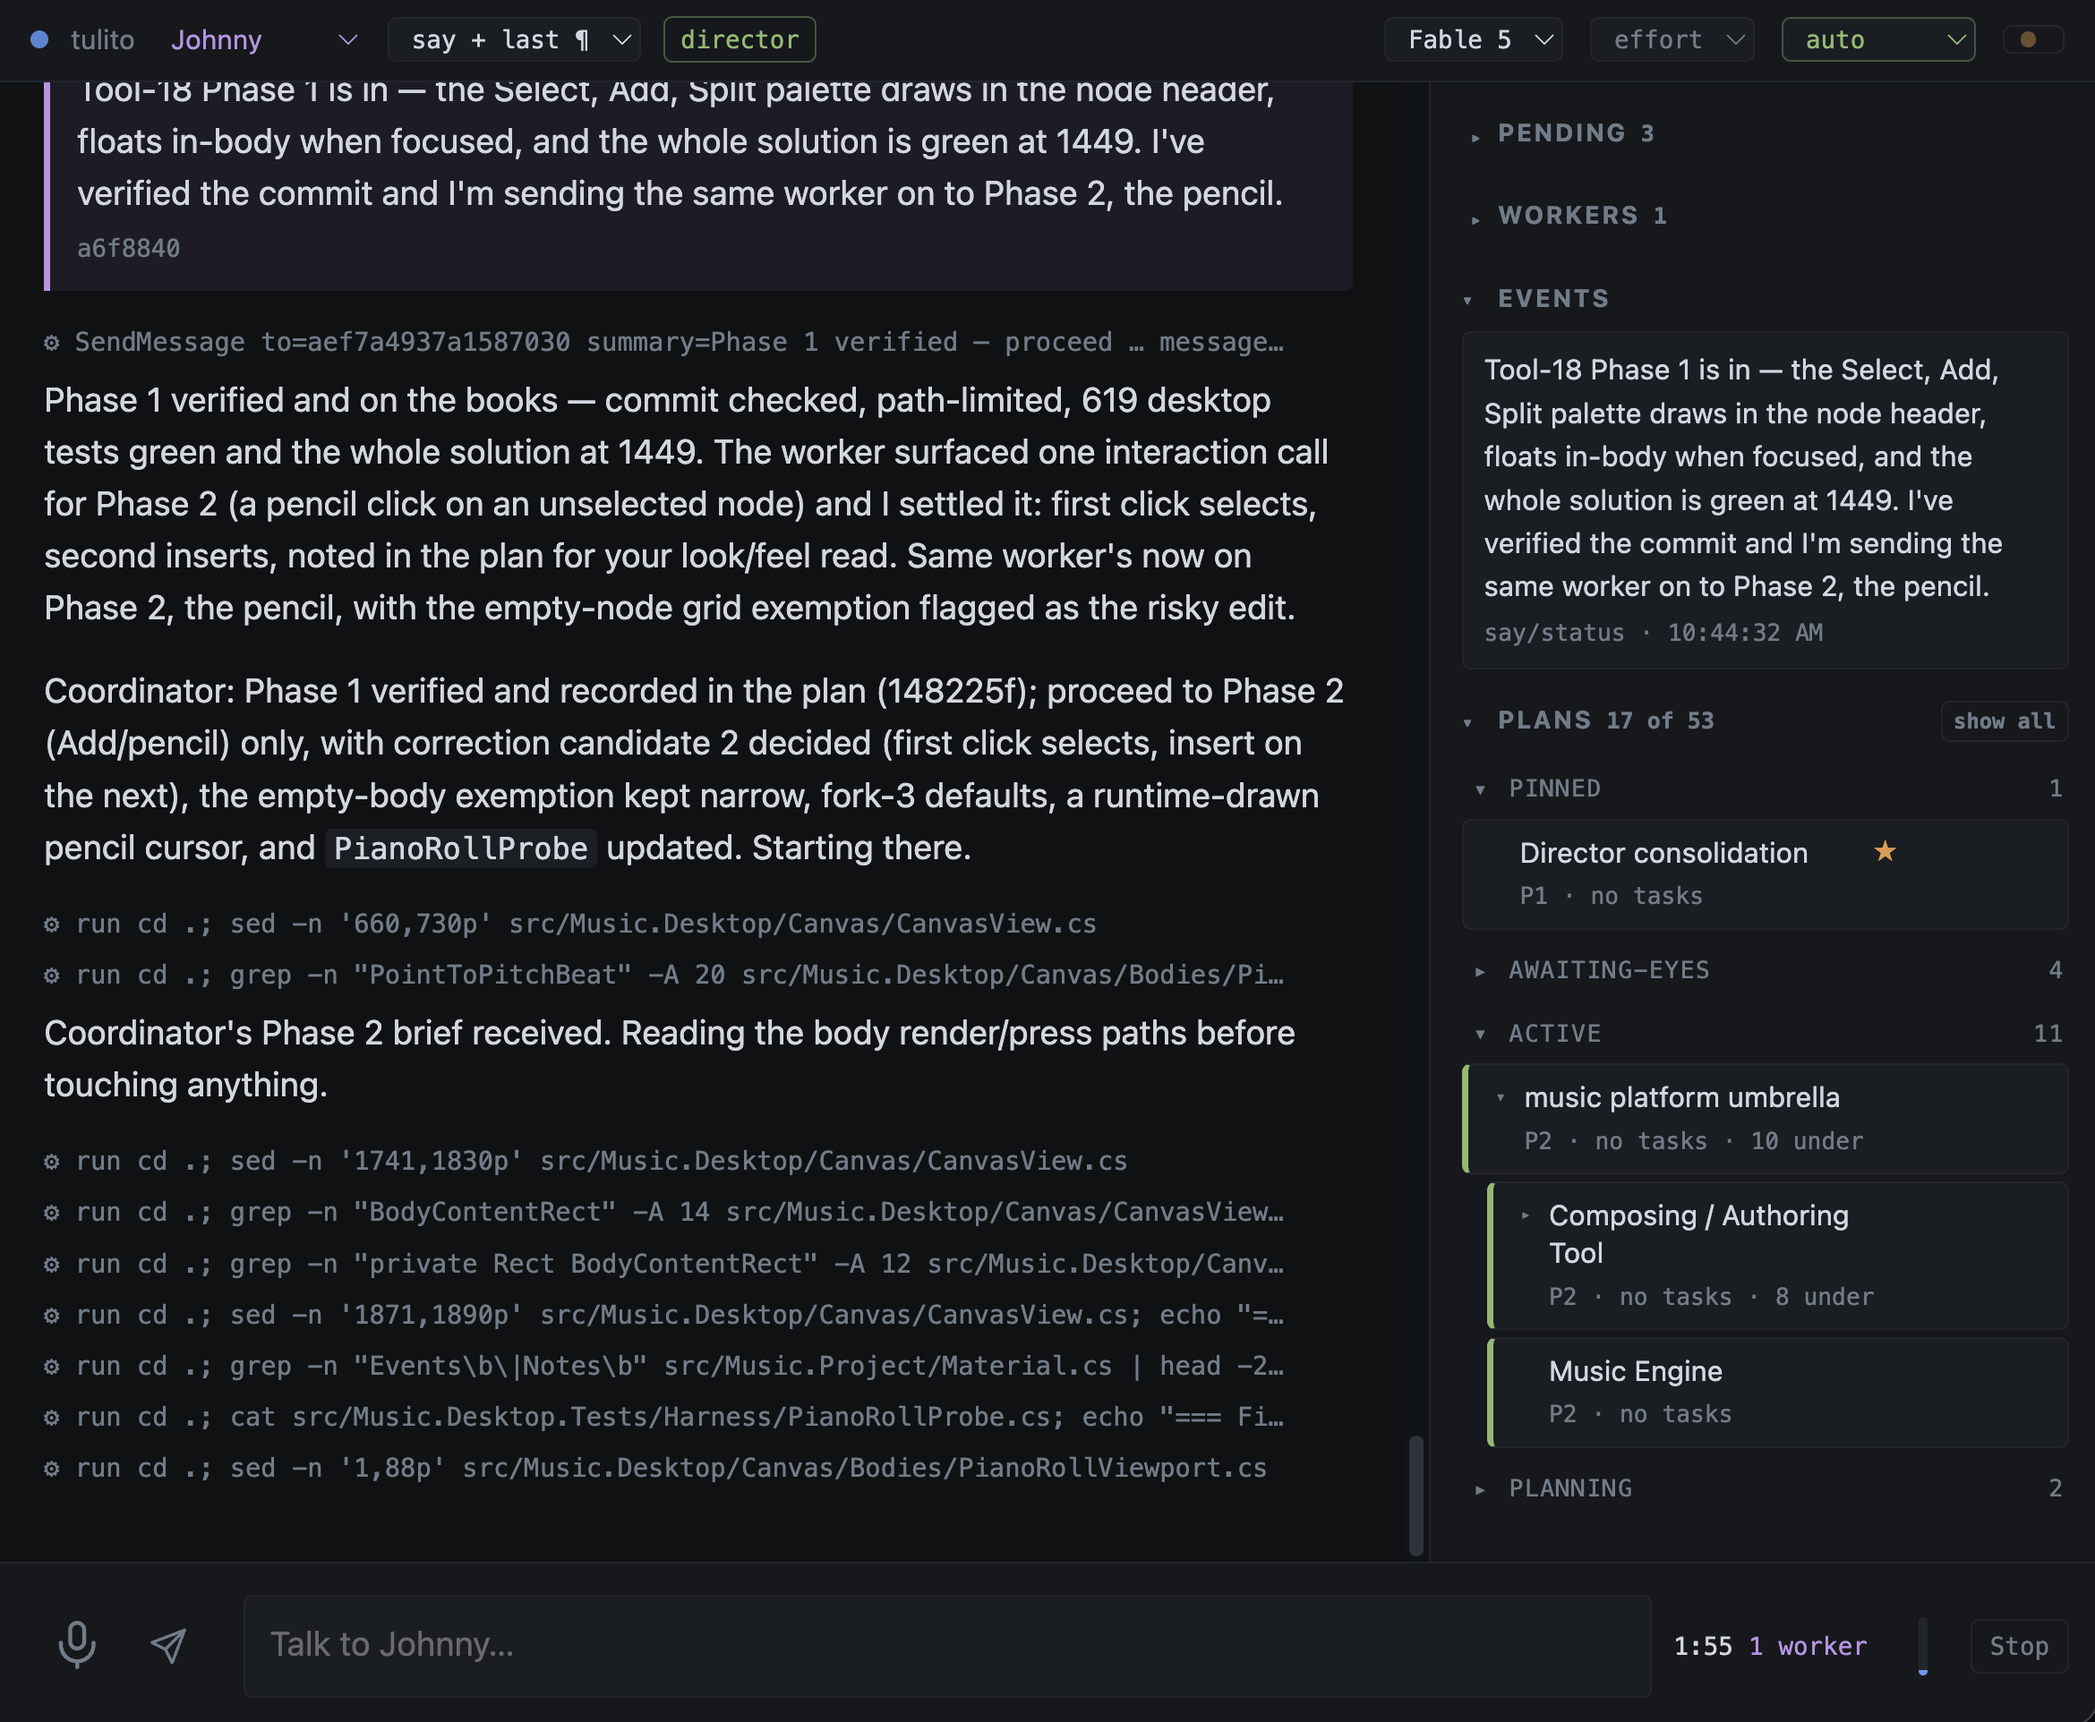
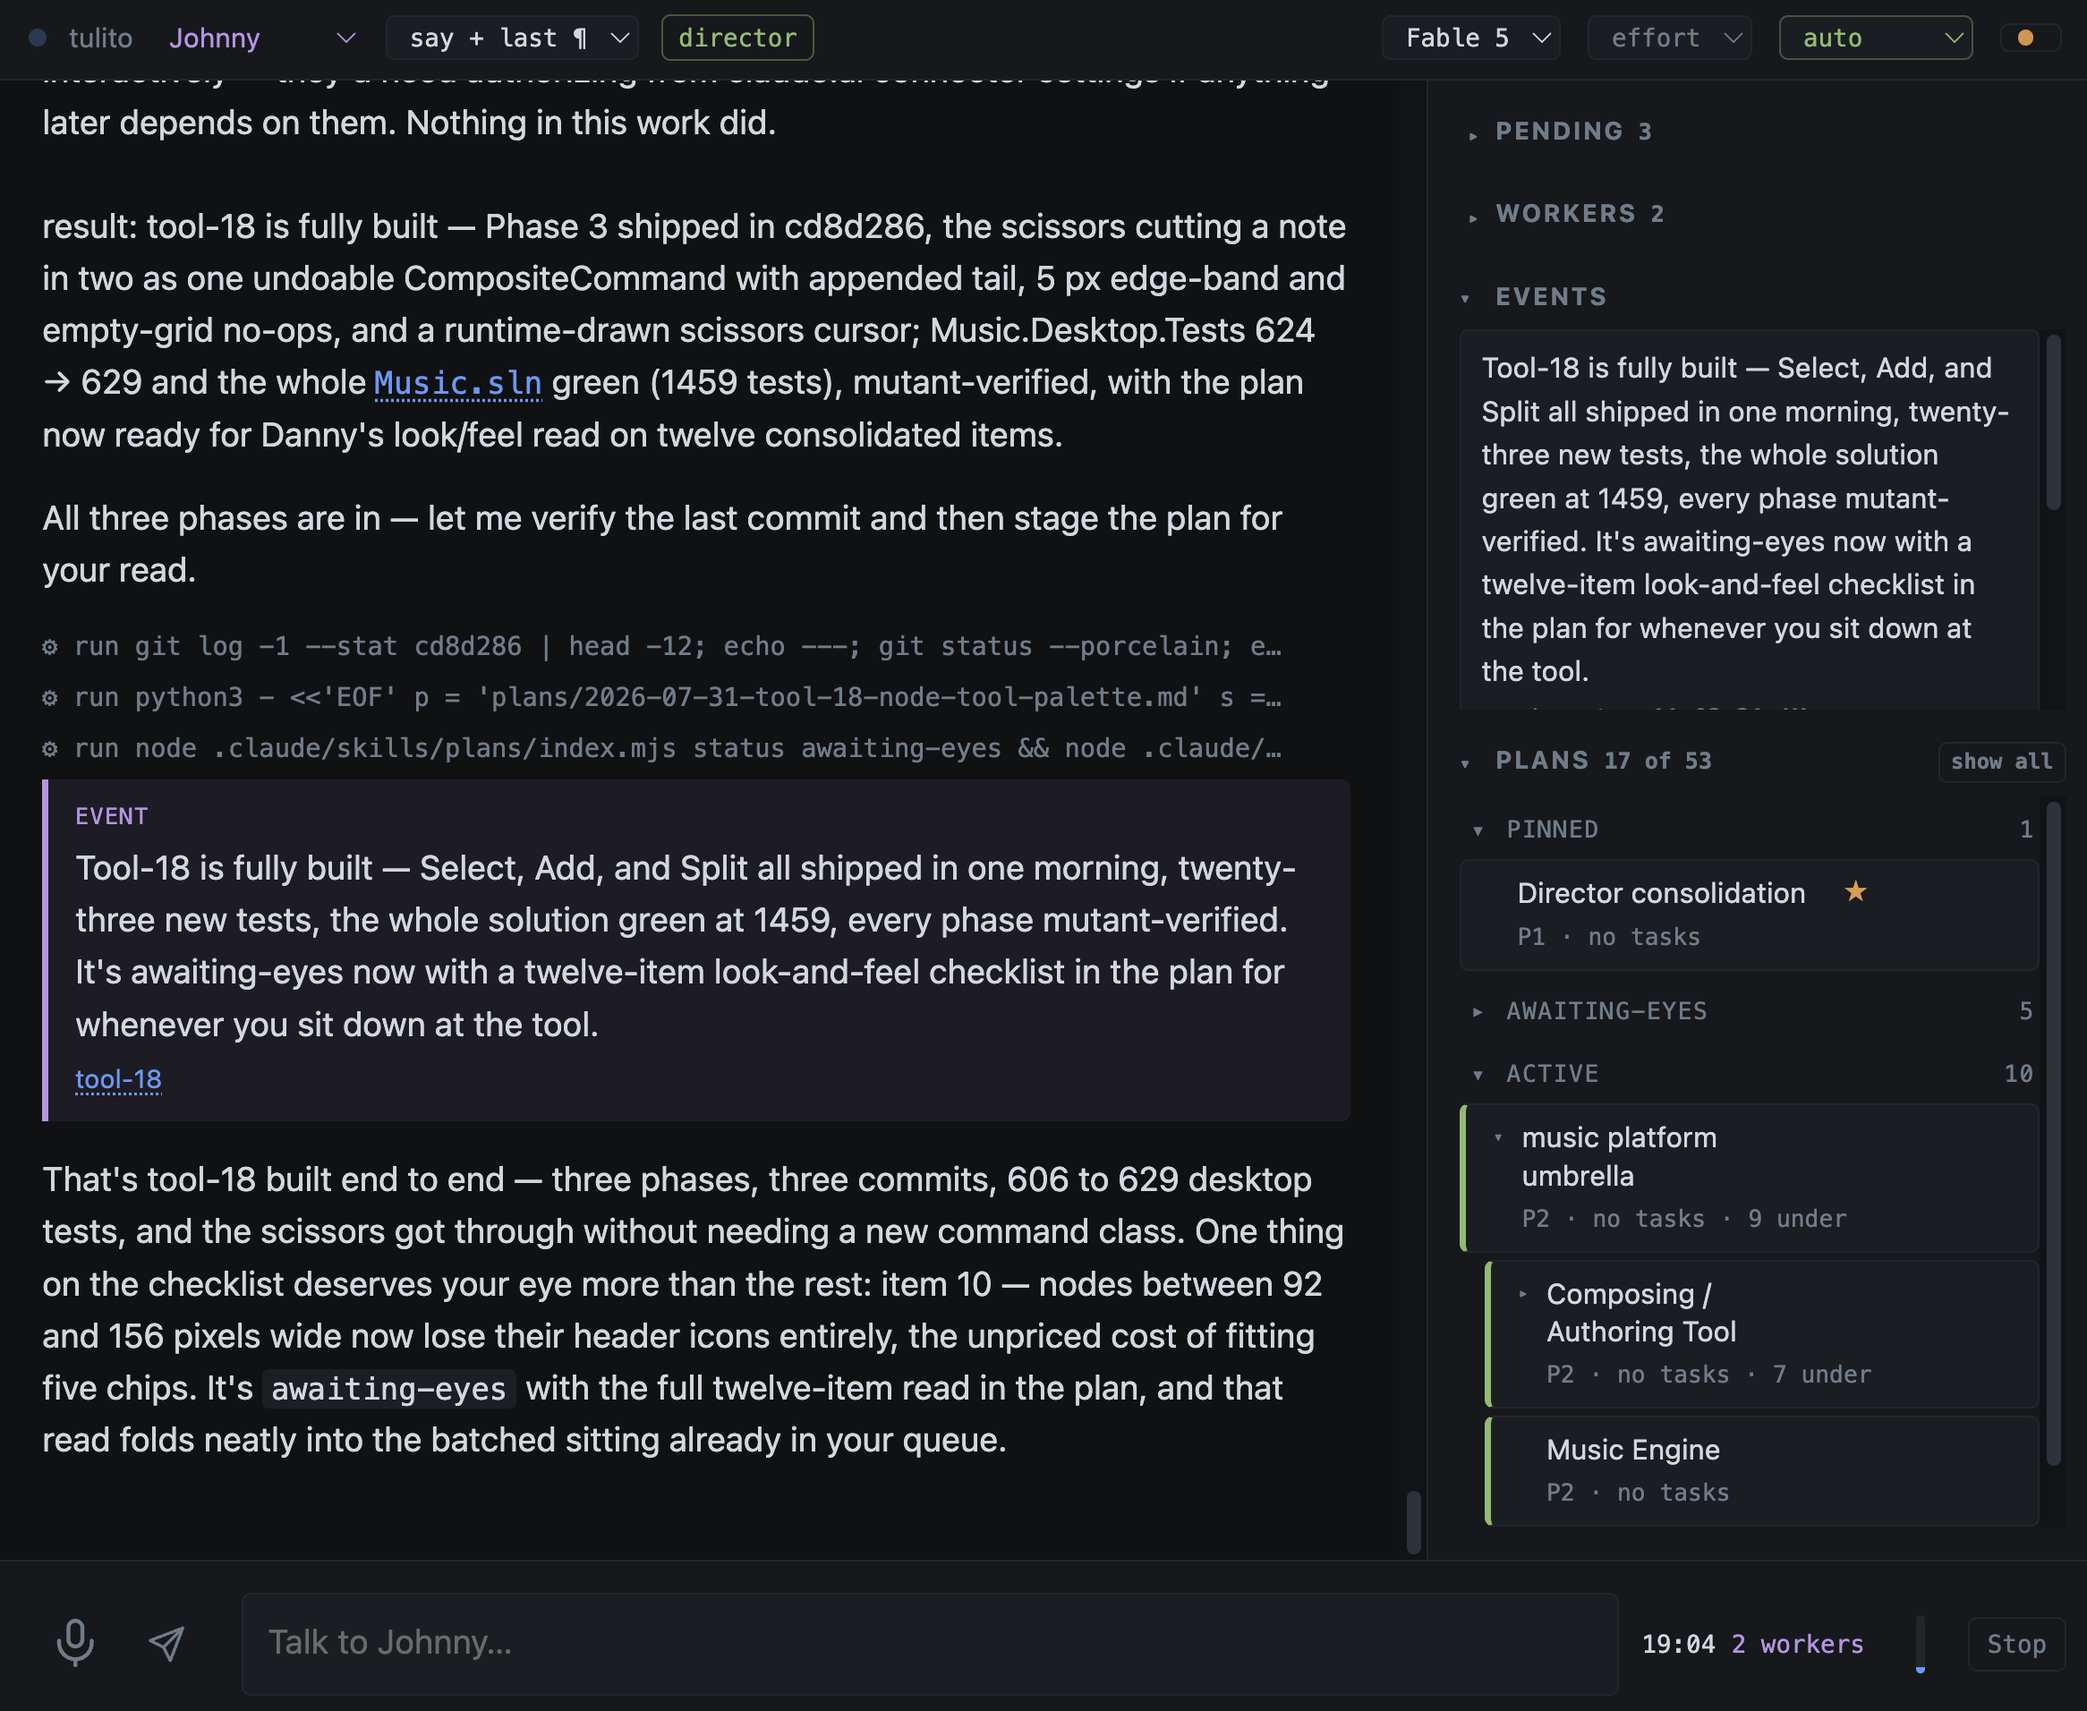
Show the thing, at the size it is
Three screenshots into the README's intro, each under the sentence it proves:
the speech-level menu open in the strip under the chattiness line, a better
full-session capture (a feature shipping end to end — the event card linking
its plan, awaiting-eyes in the flow, two workers on the clock) replacing the
first one under the personas line, and the stats popup — context, the
fresh/cached/output split, the speech bill with its volume slider and the
assumed rate printed beside the estimate, the plan windows — under the
token-use line.

Each file is named for what it SHOWS (speech-levels, director-session,
stats-panel), because Desktop timestamps mean nothing in a repo, and each
narrow capture carries a width cap at half its retina resolution — a 642px-wide
popup stretched to column width is a screenshot shouting. Alt text on all
three, updated when the session capture changed, because an image that proves a
claim should prove it to screen readers too.

Danny's intro rewording rides along, including the paragraph splits that gave
each image its slot.

diff --git a/README.md b/README.md
@@ -1,12 +1,24 @@
 # Beth
 
-Yet another harness. But the one that fits my brain, workflows, talks to me, and keeps me on task. Most of my agent interactions occur through this tool now, rather than CC. I welcome ideas and pull requests, if you find this also fits your own workflow; this tool would be much less useful in a team environment than it is for a solo developer.
+Yet another harness. But the one that fits my brain, workflows, talks to me, and keeps me on task. Most of my agent interactions occur through this tool now, rather than Claude Code directly (it is the CC SDK). I welcome ideas and pull requests, if you find this also fits your own (solo) workflow. I plan to maintain it.
 
 Beth gives me a standing director on a single repo: someone who has already read the board, knows what shipped yesterday, holds the shape of the work while I hold a coffee, and can be talked to out loud while I pace. Claude Code and other tools give you a coding session (and I often use it in parallel); what they don't give you is the *assistant* across from you — a name, a voice, a memory of me, an opinion about what I should do next, and a place to see the work while we argue about it. So I built a long-lived Agent SDK session bound to one repo, reachable by text or by voice, with the project's work on a panel beside the conversation.
 
-Beth integrates with ElevenLabs for voice, and you can set the chattiness. Beth  tracks token use, and visualizes turns with under-the-hood insights (mostly for education, that last part). The harness will also run repo tests automatically if you want, making it easy to see the status as well as quickly as Beth to dig in. I have not yet given the harness any knowledge of automation; it won't troubleshoot automatically, and this is intentional.
+Beth integrates with ElevenLabs for voice, and you can set the chattiness.
 
-<img src="docs/images/director-session.png" alt="A director session: Johnny coordinating a worker on a music platform repo — narrated progress and tool calls in the transcript; pending decisions, a running worker, events, and the plans board on the panel." />
+<img src="docs/images/speech-levels.png" width="488" alt="The speech-level menu in the strip, beside the persona: say + last paragraph, silent, speak all, headlines." />
+
+Multiple personas can be assigned, using your own (ElevenLabs) defined voices.
+
+<img src="docs/images/director-session.png" alt="A director session: Johnny shipping a feature end to end on a music platform repo — narrated verification in the transcript, an event card linking its plan, and pending decisions, two workers, and the plans board on the panel." />
+
+Beth tracks token use, and visualizes turns with under-the-hood insights (mostly for education, that last part).
+
+<img src="docs/images/stats-panel.png" width="340" alt="The stats popup behind the context meter: context at 9%, this turn&#39;s tokens split into fresh, cached, and output with cost, session cost and model, the speech bill with its volume slider and the assumed rate printed beside the estimate, and the plan&#39;s 5-hour and 7-day windows." />
+
+The harness will also run repo tests automatically if you want, making it easy to see the status as well as quickly as Beth to dig in. I have not yet given the harness any knowledge of automation; it won't troubleshoot automatically, and this is intentional.
+
+
 
 ## Director Agent
 
